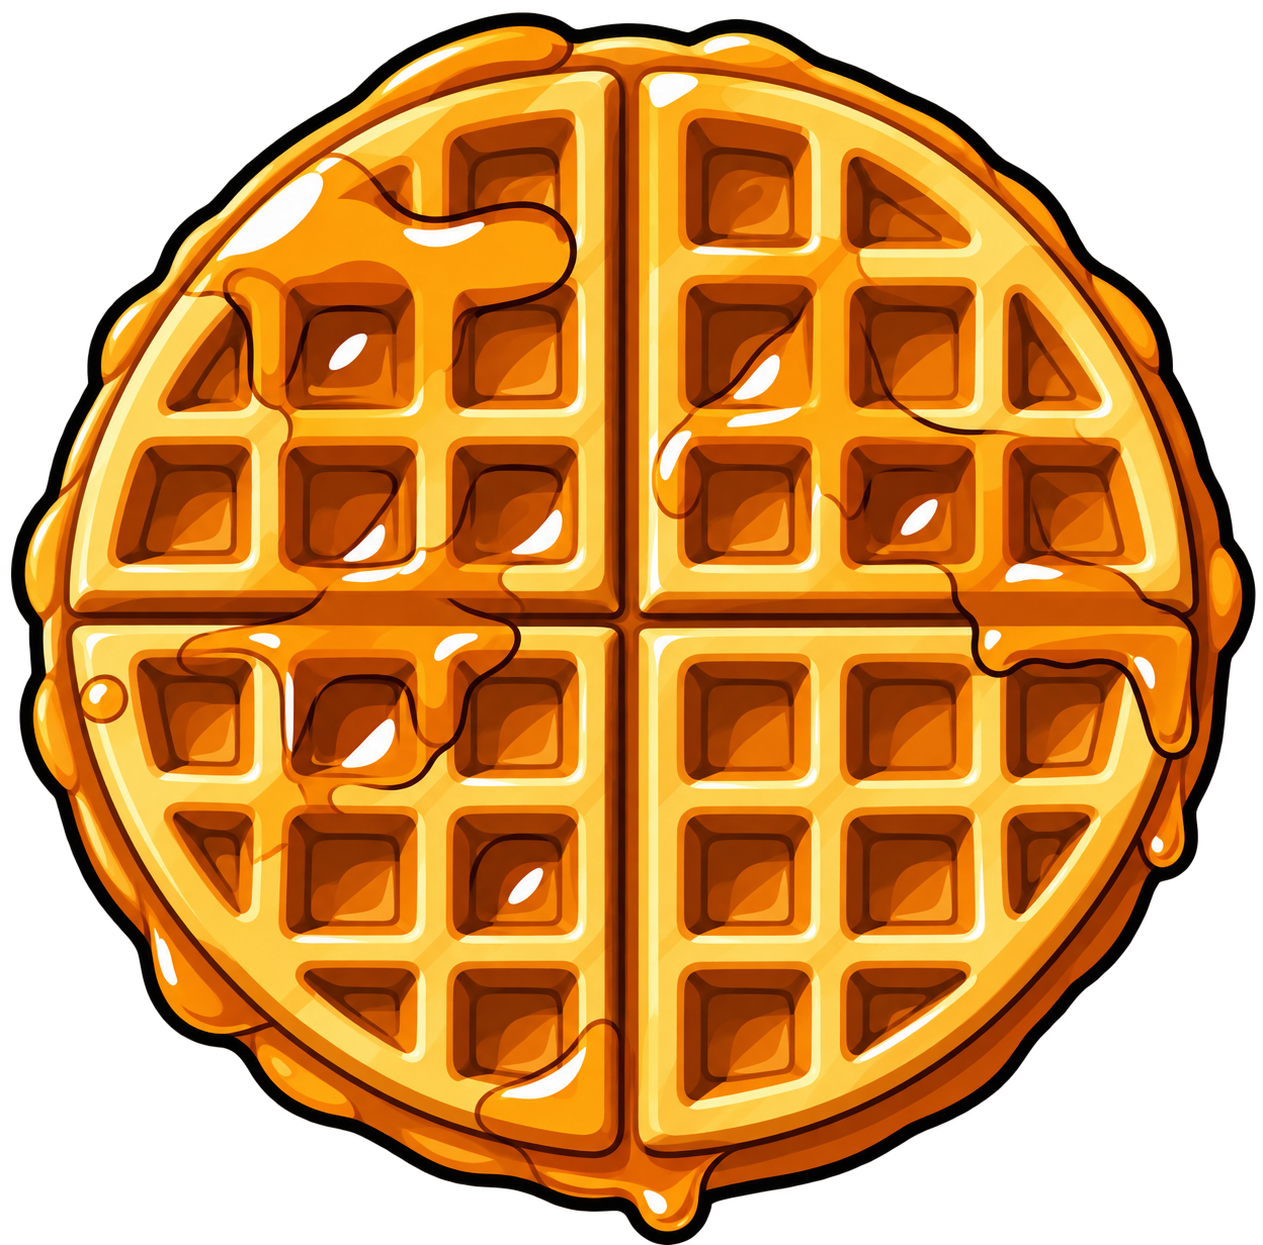
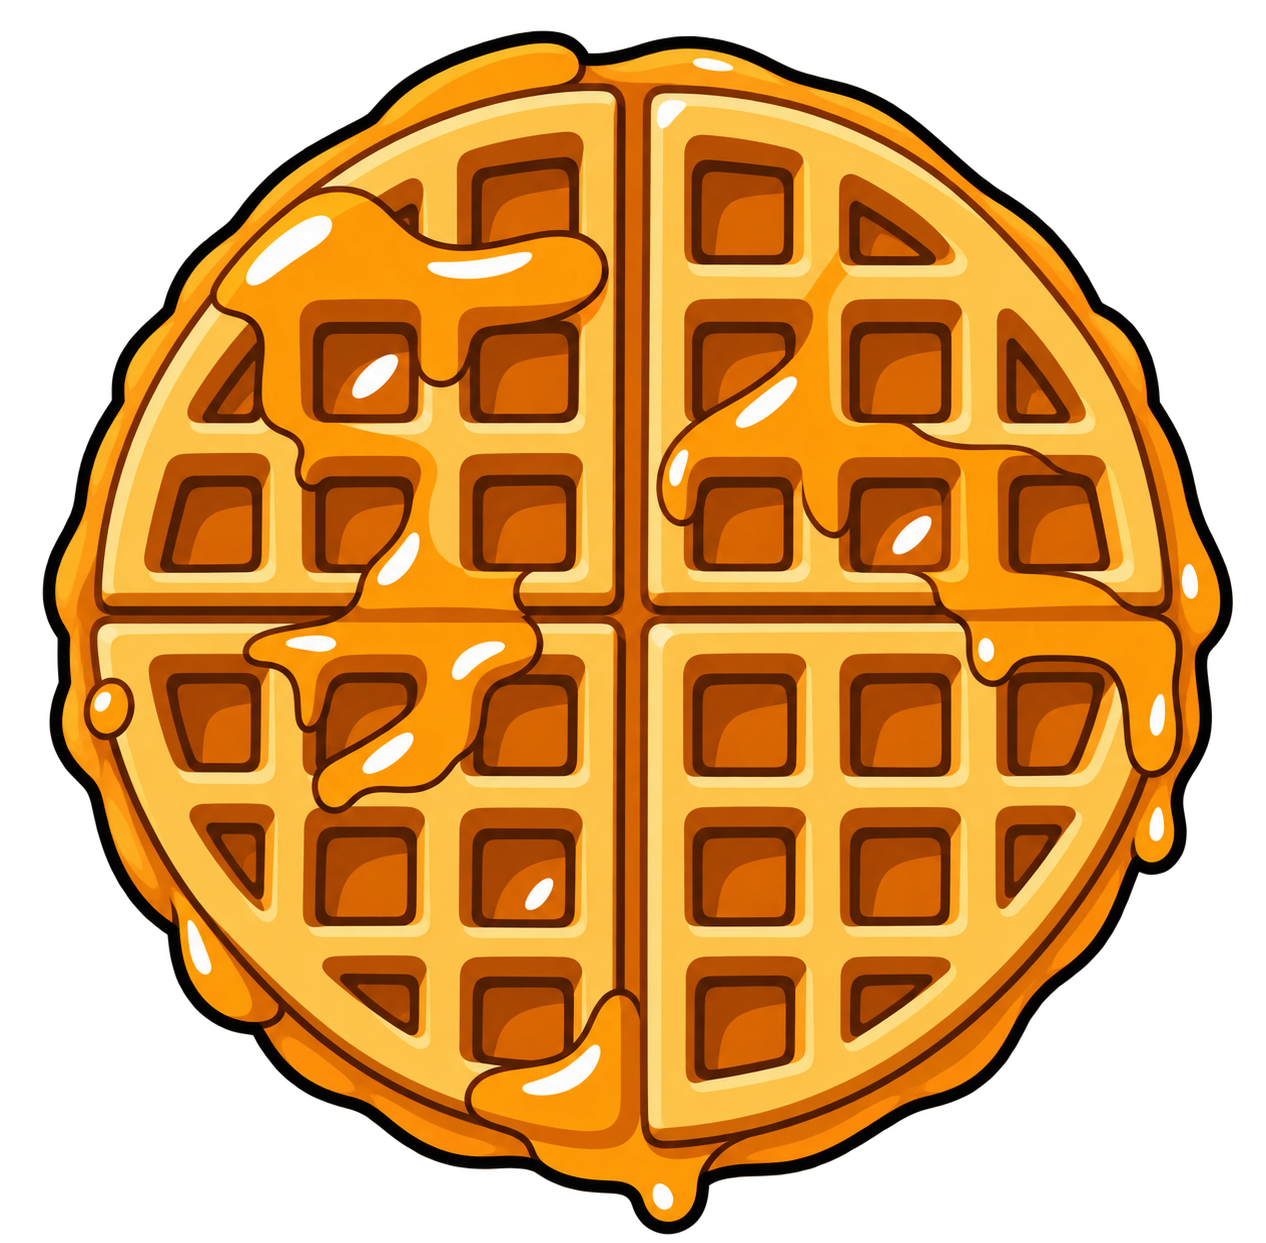
Use the simpler waffle drawing
Claude-Session: https://claude.ai/code/session_01PmHJoykLAXWcpTPQAaj2UM

diff --git a/shared/foods.js b/shared/foods.js
@@ -181,7 +181,7 @@
   "es": 1.18,
   "ey": 0.07,
   "art": {
-   "half": 57.385,
+   "half": 58.284,
    "faces": [
     0,
     0,
